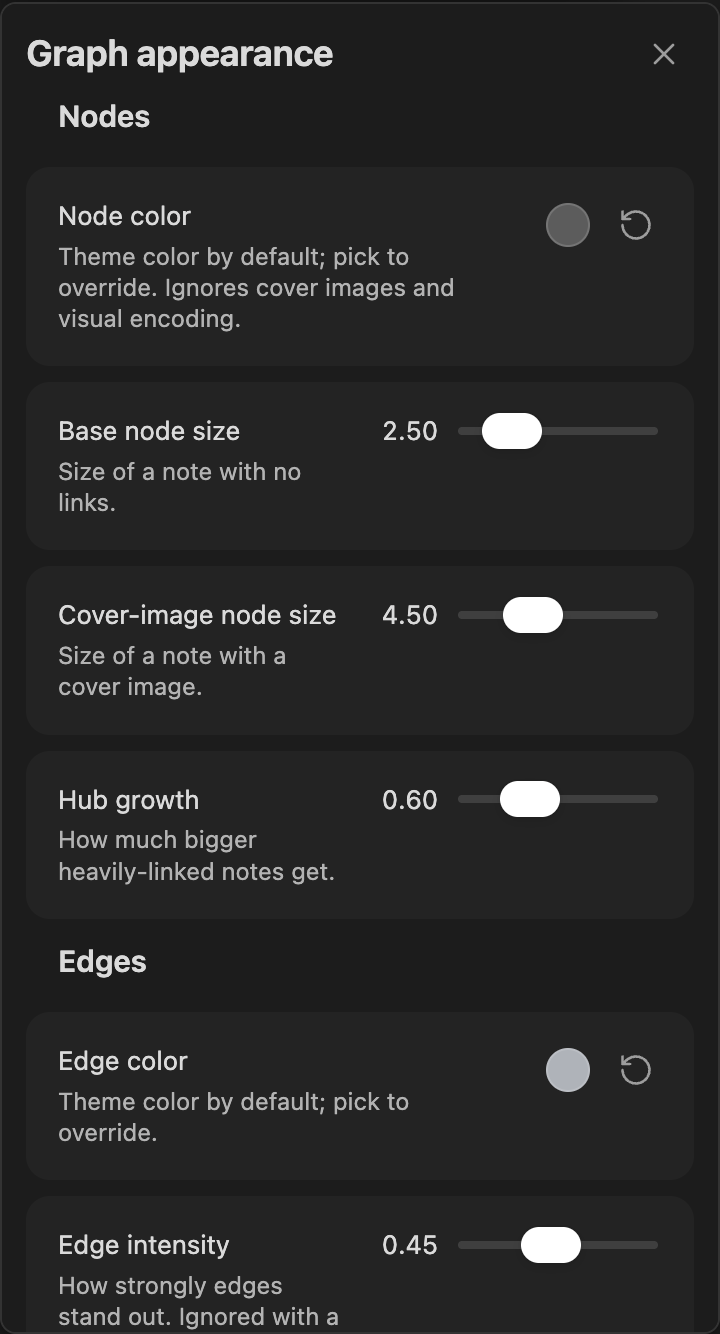
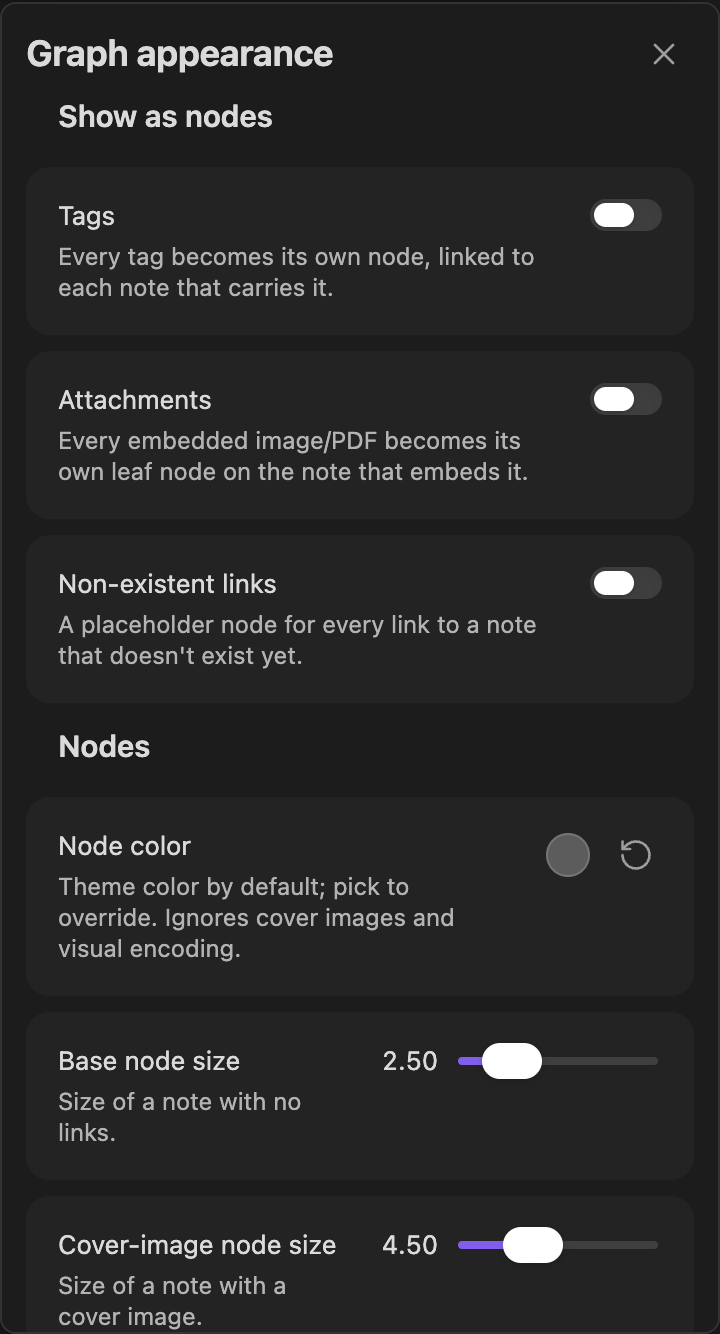
docs: rewrite documentation site for current feature set + fresh screenshots
The guide hadn't kept up with several sessions' worth of features -
rewritten to match reality, with extra care on the criteria people ask
about most:

- filter.md: replaces the removed "Existence" criterion with "Node type"
  (note/tag/attachment/nonexistent), adds Semantic clustering, and adds
  two dedicated deep-dive sections - "Understanding Community (the
  hardest one to explain)" and "Understanding Semantic clustering" -
  covering what a community actually is, why the numbering can shift, why
  its color used to auto-sync and no longer does, and how semantic
  clustering differs from Community (content vs. link structure).
- color-and-size.md: removes the now-false "color syncs automatically"
  claim, documents the cluster-heatmap glow for Community/Semantic
  cluster groups, links back to the Community/Semantic clustering
  explanations.
- diagnostics.md, appearance.md: document the cluster-heatmap glow and
  its Appearance toggle, "Show as nodes", edge path styles, Dissuade
  hubs/Tighter clusters.
- getting-started.md, introduction.md: fix the toolbar description (now
  horizontal, top-left, not vertical top-right) and add the two
  previously-undocumented panels, Find path and Saved views.
- New guide/find-path.md, guide/saved-views.md - full pages for both,
  wired into the sidebar (config.mts).
- index.md: features list now mentions semantic clustering and saved
  views, not just the original five panels.
[…]

diff --git a/docs/guide/filter.md b/docs/guide/filter.md
@@ -14,7 +14,7 @@ Click **"+ new filter"** to add one, then click its pencil icon to edit it. Give
 
 ## The criteria
 
-Two kinds of criteria: plain ones that look at a note directly (its text, tags, properties, links), and analytics ones computed from the whole link graph (bridging, prominence, activity, structure, connectivity, community). Every [Color & size](./color-and-size) group uses exactly the same criteria, applied to coloring/sizing instead of hiding.
+Three kinds of criteria: plain ones that look at a note directly (its text, tags, properties, links), *link-graph* analytics computed from how your notes connect (bridging, prominence, activity, structure, connectivity, community), and one *content* analytic that ignores links entirely (semantic clustering). Every [Color & size](./color-and-size) group uses exactly the same criteria, applied to coloring/sizing instead of hiding.
 
 ### Plain criteria
 
@@ -25,26 +25,52 @@ Two kinds of criteria: plain ones that look at a note directly (its text, tags, 
 - **Filename** - the note's title (not its body) contains a word or phrase.
 - **Not edited at least (days)** - the note hasn't been modified in at least this many days.
 - **Minimum number of links** - the note has at least this many links (its degree in the graph, in + out combined).
-- **Existence** - whether the node is a real note, or a *ghost node* - a link to a note that doesn't exist yet. Use this to show only the gaps in your vault (notes you've linked to but never created), or to hide them entirely. Two ready-made filters, **"Show existing notes"** and **"Show non-existing notes"**, are available out of the box (disabled by default) so you don't have to build this one from scratch.
+- **Node type** - matches one specific kind of node: a normal note, a *tag node*, an *attachment node*, or a *nonexistent link* (a link to a note that doesn't exist yet, also called a "ghost node"). Tag and attachment nodes only appear on the graph at all once you turn them on under [Appearance](./appearance#show-as-nodes) - each is off by default, since either one adds real nodes/edges to the graph, not just a style change. Three ready-made filters - **"Non-existent links"**, **"Attachments"**, **"Tags"** - are available out of the box (disabled by default, and each still needs its matching "Show as nodes" toggle on to actually see anything) so you don't have to build this one from scratch.
 
-### Analytics criteria
+### Link-graph criteria
 
 These run the same graph algorithms the [Diagnostics](./diagnostics) panel uses, so you can turn any of them into a reusable filter (or a [Color & size](./color-and-size) group) instead of only reading them off a list.
 
 - **Bridging** (betweenness centrality) - whether a note lies on the shortest path between many *other* pairs of notes, i.e. how much of a structural bridge it is. A note can have very few links and still score high here, if it's the only connection between two otherwise-separate parts of the vault - that's what sets it apart from "Minimum number of links." Choose "connects otherwise-separate notes" (top half of what's present) or "not a bridge note" (bottom half).
 - **Prominence** (PageRank) - how prominent a note is, weighted by how prominent the notes linking to it are. Ten links from ten obscure notes count for less than one link from an already-prominent hub - unlike "Minimum number of links," which treats every link the same. Choose "a prominent note" (top half) or "not a prominent note" (bottom half).
-- **Activity** - whether a note sits in an active or inactive neighborhood of the vault. Clew groups tightly-linked notes into communities (see "Community" below), then compares how recently each community was edited overall. Choose "active area of the vault" or "inactive area of the vault." This is about the *neighborhood*, not the individual note - see "Not edited at least" above for a note's own edit date, independent of who it's linked to.
+- **Activity** - whether a note sits in an active or inactive neighborhood of the vault. Notes are grouped into communities (see "Community" below), then compared by how recently each community was edited overall. Choose "active area of the vault" or "inactive area of the vault." This is about the *neighborhood*, not the individual note - see "Not edited at least" above for a note's own edit date, independent of who it's linked to.
 - **Structure** - whether a note's community (see below) is mostly gathered in one folder, or scattered across several. Flags a group of notes that clearly belongs together by links but has drifted across mismatched folders over time - the kind of thing that's easy to miss by browsing folders one at a time. Choose "linked notes scattered across folders" or "linked notes gathered in one folder."
 - **Connectivity** - whether a note's connected component is the vault's single largest one (its "main body"), or one of the smaller pockets cut off from it. Choose "cut off from the vault's main body" or "in the vault's main body."
-- **Community** - matches every note in one specific detected community. Communities are groups of tightly-linked notes Clew detects automatically from your link graph - not folders or tags you set up yourself. Instead of typing a community number, pick any note you recognize that belongs to the community you want - Clew resolves which one it is for you, and confirms with "→ Community 2 · 17 notes" so the number always comes with real context (how big that neighborhood is), not as a bare digit you have to already know the meaning of.
+- **Community** - matches every note in one specific detected community. See its own section below - it's the criterion most people have questions about the first time they meet it.
+
+### Content criterion
+
+- **Semantic cluster** - matches every note in one specific *semantic* cluster, grouped by what notes are actually about rather than by any link between them. See its own section below.
+
+## Understanding Community (the hardest one to explain)
+
+**A community is a group of notes that link to each other a lot more than they link to the rest of your vault** - detected automatically by an algorithm (Louvain community detection) run over your actual link graph, every time it matters. It has nothing to do with folders, tags, or anything you set up yourself; it's purely "which notes cluster together if you only look at who links whom." A vault about, say, cooking and woodworking will usually end up with one community per topic even if you never tagged anything that way - the notes about roasting techniques all link to each other far more than they link to the notes about joinery, so the algorithm separates them on its own.
+
+A few things that consistently confuse people the first time:
+
+- **You don't create or name communities.** They're recomputed from your current link graph whenever a Community/Activity/Structure criterion needs them (and cached in between), so they can genuinely change as you add or remove links - a community isn't a permanent label attached to a note, it's a snapshot of "who currently clusters with whom."
+- **The numbering is just "biggest first," and can shift.** Internally each community gets a rank - `0` is the largest community present, `1` the next largest, and so on - recomputed fresh from your current link graph every time, not a permanent ID. That number is never shown to you directly: when you add a Community criterion, you get a note-picker instead - type any note you recognize, and Clew resolves which community it's currently in for you, showing "→ Community 2 · 17 notes" so the number always comes with real context. A criterion saved this way matches "whichever community currently holds rank 2," so if your link graph changes enough to reorder the rankings (a different community growing past it, say), the criterion can end up matching a different community than the one you originally picked from - a rare edge case in practice (rankings are usually stable), but worth knowing about if a group's matches ever look unexpectedly different after a big round of edits.
+- **A community isn't the same thing as "connected."** Two notes can be in the same connected component (see "Connectivity" above) without being in the same community - Louvain groups by *density* of linking, not just by "is there any path at all." A vault's whole main body is usually one connected component but several communities.
+- **Community's color used to auto-sync to a fixed palette - it doesn't any more.** An earlier version of Clew tried to color every "Community" group automatically from a fixed palette the moment you picked a community, on the theory that "Community 1 is always red" would be a useful convention. User feedback made clear that was more surprising than helpful - picking a note in the note-picker could silently repaint a group you'd already colored yourself. Community's color is now a plain, manual choice in [Color & size](./color-and-size), exactly like every other criterion type - picking a community only changes *which notes match*, never what color they get.
+
+**When to reach for it:** whenever "these notes clearly belong together, even though I never explicitly grouped them" is the thing you want to see - a fast way to discover topic clusters you didn't consciously build, before deciding whether to formalize them as tags or folders.
+
+## Understanding Semantic clustering
+
+**Semantic clustering groups notes by what they're actually about, using a local text-embedding model - not by any link between them at all.** This is the one criterion in Clew that ignores your link graph entirely: two notes that both happen to discuss the same topic, written independently, in different folders, with zero tags in common and no link ever drawn between them, still land in the same semantic cluster if their content reads as related.
+
+- **How it works, briefly:** the first time you add a Semantic cluster criterion, Clew reads every note's title and body, turns each one into a numeric "meaning vector" using a small embedding model that runs entirely on your own device (nothing is ever sent anywhere), and groups notes whose vectors are close together. The panel shows **"Computing embeddings…"** while this runs - a one-time cost per note (a few seconds for a small vault, longer for a large one, and longer still the very first time, since the ~20MB model itself has to download once). After that, results are cached and only recomputed for notes you've actually changed.
+- **Community vs. Semantic cluster - when to use which:** reach for **Community** when you want "notes that reference each other a lot" (a structural, link-based question); reach for **Semantic cluster** when you want "notes that are about the same thing" regardless of whether you ever got around to linking them. The two can and do disagree - a note you wrote about a topic six months before you started cross-linking your notes on it will show up in the right semantic cluster immediately, long before it necessarily ends up densely linked into the matching community.
+- **Same note-picker, same "→ cluster · N notes" confirmation** as Community above - pick any note you recognize, Clew resolves which cluster it's in.
+- Same removed-auto-color behavior as Community: picking a cluster only changes which notes match, never the group's color.
 
 ## Include or exclude
 
-Most criteria show one small, clickable word right in their own controls - e.g. "Folder **is**" / "Folder **is not**", "Filename **contains**" / "**does not contain**", "**At least**" / "**less than**" this many days. Click the word to flip a criterion from including matches to excluding them, and back. The analytics criteria with a two-way choice (Bridging, Prominence, Activity, Structure, Connectivity) work the same way - the phrase itself is the toggle, since each one already reads as a complete either/or statement (there's no separate "high"/"low" number to set a cutoff on).
+Most criteria show one small, clickable word right in their own controls - e.g. "Folder **is**" / "Folder **is not**", "Filename **contains**" / "**does not contain**", "**At least**" / "**less than**" this many days. Click the word to flip a criterion from including matches to excluding them, and back. The link-graph criteria with a two-way choice (Bridging, Prominence, Activity, Structure, Connectivity) work the same way - the phrase itself is the toggle, since each one already reads as a complete either/or statement (there's no separate "high"/"low" number to set a cutoff on).
 
 ## What does this criterion mean?
 
-Every criterion, once added to a filter, has an **(i)** button next to its name - click it to reveal a one-line explanation of exactly what it matches, right there in the row. Useful for the analytics criteria especially (Bridging, Prominence, Activity, Structure, Community), but every criterion type has one, including the "obvious" ones like Tag or Folder.
+Every criterion, once added to a filter, has an **(i)** button next to its name - click it to reveal a one-line explanation of exactly what it matches, right there in the row. Useful for the link-graph and content criteria especially (Bridging, Prominence, Activity, Structure, Community, Semantic cluster), but every criterion type has one, including the "obvious" ones like Tag or Folder.
 
 ## Several filters at once
 

diff --git a/docs/guide/introduction.md b/docs/guide/introduction.md
@@ -2,33 +2,36 @@
 
 Obsidian's built-in graph shows you everything at once, but it's a single fixed view: one color scheme, one layout, and no analysis beyond what you can eyeball.
 
-**Clew is a Knowledge Explorer for your vault, not just another way to draw the graph.** It opens your whole vault as its own interactive graph view, but underneath that it runs real graph analytics - betweenness centrality, PageRank, community detection, connected components - and lets you filter, color, and size notes by what they find. A small set of tools sits on top of all that:
+**Clew is a Knowledge Explorer for your vault, not just another way to draw the graph.** It opens your whole vault as its own interactive graph view, but underneath that it runs real graph analytics - betweenness centrality, PageRank, community detection, connected components, even a local text-embedding model for notes that are related in *meaning* but never actually link to each other - and lets you filter, color, and size notes by what they find. A small set of tools sits on top of all that:
 
 - **Layout** - pick how notes are arranged: force-directed (the default), hierarchical, radial, or circular.
 - **Filter** - hide everything except notes matching one or more named, reusable filters, including the analytics criteria below.
 - **Color & size** - recolor and resize notes into named groups, by the same kind of criteria filters use.
+- **Find path** - the shortest route through the link graph between any two notes, with alternatives.
 - **Focus** - narrow the whole graph down to one note and its neighborhood, hops away, with everything else hidden.
-- **Diagnostics** - a panel of structural problems (orphans, broken links, isolated clusters, communities scattered across mismatched folders), each one click from being highlighted on the graph.
 - **Timeline** - replay your notes and links in the order they were created.
 - **Appearance** - tune node/edge size, color, physics, and labels live.
+- **Diagnostics** - a panel of structural problems (orphans, broken links, isolated clusters, communities scattered across mismatched folders), each one click from being highlighted on the graph.
+- **Views** - save the filter/group/layout/Focus combination you're currently looking at as one named, one-click-reapplicable view.
 
-Nothing here edits your notes. Filters, groups, and appearance settings are all Clew's own saved state (per vault), completely separate from your note content.
+Nothing here edits your notes. Filters, groups, saved views, and appearance settings are all Clew's own saved state (per vault), completely separate from your note content.
 
 ## Why use it
 
 - **Structure you can't see note-by-note becomes visible.** The default Force layout doesn't just draw dots - it pulls linked notes together and pushes unrelated ones apart, so topic clusters, well-connected hubs, and disconnected notes show up as shapes instead of something you have to click around to infer.
-- **Analysis you'd otherwise have to eyeball gets computed for you.** Which notes structurally bridge two topic areas, which are prominent because prominent notes link to them, which communities of linked notes have gone stale or drifted across mismatched folders - Clew runs the actual graph algorithms instead of asking you to guess from node size and color alone.
+- **Analysis you'd otherwise have to eyeball gets computed for you.** Which notes structurally bridge two topic areas, which are prominent because prominent notes link to them, which communities of linked notes have gone stale or drifted across mismatched folders, which notes are about the same thing even though nothing links them - Clew runs the actual algorithms instead of asking you to guess from node size and color alone.
 - **A big vault stops being one overwhelming mass.** Filters narrow the graph down to just the notes matching a tag, property, folder, edit recency, or any of the analytics criteria above, so you're looking at a slice, not everything at once.
 - **Nothing you do here can break your vault.** Filters, groups, and appearance settings are saved state, not edits to your notes - experiment freely.
 
 ## What you can find out about your vault
 
-- **Which notes are hubs.** Notes with more links are rendered larger by default, and a "link count" filter/group criterion lets you isolate them directly - the notes the rest of your vault actually depends on.
-- **Which notes bridge otherwise-separate parts of your vault, or are structurally prominent.** The "Bridging" criterion (betweenness centrality) finds notes that sit on the path between two topic areas; "Prominence" (PageRank) finds notes that are well-connected *because* the notes linking to them are well-connected too, not just because they have many links.
-- **Which notes are orphaned, isolated, or cut off from the vault's main body.** The Diagnostics panel lists orphaned notes and disconnected clusters directly; the "Connectivity" filter/group criterion does the same thing note-by-note, for building it into a filter or color group.
-- **Which topic areas have gone stale, or are scattered across mismatched folders.** The "Activity" criterion runs community detection on your link graph, then compares how recently each detected community was edited relative to the others. "Structure" compares the same communities against your folder layout instead - a group of notes that clearly belongs together by links, but lives in five different folders, shows up without you tracking it by hand. Both surface in the Diagnostics panel too.
+- **Which notes are hubs.** Notes with more links are rendered larger by default, and a "Minimum number of links" filter/group criterion lets you isolate them directly - the notes the rest of your vault actually depends on.
+- **Which notes bridge otherwise-separate parts of your vault, or are structurally prominent.** The **Bridging** criterion (betweenness centrality) finds notes that sit on the path between two topic areas; **Prominence** (PageRank) finds notes that are well-connected *because* the notes linking to them are well-connected too, not just because they have many links.
+- **Which notes are orphaned, isolated, or cut off from the vault's main body.** The Diagnostics panel lists orphaned notes and disconnected clusters directly, with a one-click glow on the graph showing exactly which notes they are; the **Connectivity** filter/group criterion does the same thing note-by-note, for building it into a filter or color group.
+- **Which groups of linked notes exist, and which have gone stale or drifted across folders.** Clew runs community detection (the Louvain algorithm) on your link graph automatically - the **Community** criterion matches everything in one specific detected group. **Activity** compares how recently each community was edited relative to the others; **Structure** compares each community against your folder layout instead, flagging one that clearly belongs together by links but lives scattered across five different folders. All three surface in the Diagnostics panel too - see [Filter](./filter#understanding-community-the-hardest-one-to-explain) for a fuller explanation of Community, since it's the one criterion that trips people up most.
+- **Which notes are about the same thing, even if nothing links them.** **Semantic clustering** reads every note's own title and content and groups notes by meaning, computed locally on your device - the one criterion here that isn't about link structure at all. Two notes that both happen to discuss the same topic, written independently and never cross-referenced, land in the same cluster.
 - **Which individual notes haven't been touched in a while.** Filter or group by "not edited in the last N days," independent of which community a note belongs to.
-- **How everything relates to one specific note.** The Radial layout arranges every other note in rings by hop distance from a note you pick - useful for seeing exactly what's actually connected to it, and how closely. Focus goes further and hides everything past a chosen hop distance entirely.
+- **How everything relates to one specific note.** The Radial layout arranges every other note in rings by hop distance from a note you pick - useful for seeing exactly what's actually connected to it, and how closely. Focus goes further and hides everything past a chosen hop distance entirely. Find path shows the actual route (or routes) between two specific notes.
 - **How your vault grew.** The Timeline panel replays notes and links in creation order - useful for spotting a burst of activity, a long quiet stretch, or just how far back your oldest notes go.
 
 ## Why "Clew"?
@@ -38,5 +41,5 @@ A *clew* is a ball of thread - the one Theseus used to find his way back out of 
 ## Where to go next
 
 - [Getting started](./getting-started) - open the graph for the first time.
-- [Layouts](./layouts), [Filter](./filter), [Color & size](./color-and-size), [Focus](./focus), [Timeline](./timeline), [Appearance](./appearance), [Diagnostics](./diagnostics) - one page per panel, in the order their toolbar icons appear.
+- [Layouts](./layouts), [Filter](./filter), [Color & size](./color-and-size), [Find path](./find-path), [Focus](./focus), [Timeline](./timeline), [Appearance](./appearance), [Diagnostics](./diagnostics), [Saved views](./saved-views) - one page per panel, in the order their toolbar icons appear.
 - [Interacting with the graph](./interactions) - clicking, hovering, and pinning notes.

diff --git a/docs/guide/color-and-size.md b/docs/guide/color-and-size.md
@@ -10,15 +10,21 @@ Click the **Color & size** toolbar icon to color and resize notes into named gro
 
 ## Creating a group
 
-Click **"+ new group"**, pick a color, give it a name, and add criteria the same way as [Filter](./filter): Text, Tag, Property, Folder, Filename, Not edited at least, Minimum number of links, Existence, plus the analytics criteria - Bridging, Prominence, Activity, Structure, Connectivity, Community - each with its own include/exclude word. See [Filter's criteria section](./filter#the-criteria) for exactly what each one matches.
+Click **"+ new group"**, pick a color, give it a name, and add criteria the same way as [Filter](./filter): Text, Tag, Property, Folder, Filename, Not edited at least, Activity, Structure, Bridging, Prominence, Connectivity, Community, Semantic cluster, Minimum number of links, Node type - each with its own include/exclude word. See [Filter's criteria section](./filter#the-criteria) for exactly what each one matches - **Community and Semantic cluster** are explained in detail there too, since they're the two most people have questions about.
 
 A note matches a group only if it satisfies **every** criterion in that group - same AND-only rule as Filter.
 
-Optionally turn on **"Scale size"** to also multiply matching notes' size (on top of their normal link-count-based size, not replacing it - a highly-linked note in a group still reads as a hub).
+Optionally turn on **"Scale size"** (in the "..." menu) to also multiply matching notes' size (on top of their normal link-count-based size, not replacing it - a highly-linked note in a group still reads as a hub).
 
-## Color by community, automatically
+## Color is always your own choice
 
-Pick the **Community** criterion and Clew syncs the group's own color to that community's color from a fixed palette automatically - so "color each detected community differently" needs no manual color-picking, just one group per community.
+A group's color is a plain, manual pick from its own color swatch - nothing here ever changes it automatically, including for Community or Semantic cluster criteria. Pick a community/cluster in the note-picker and only the *matching* changes; the group keeps whatever color you gave it. (An earlier version auto-synced a group's color to a fixed palette entry per community - removed after feedback that it kept silently overwriting colors people had already picked themselves.)
+
+## The cluster heatmap: showing visual cohesion, not just color
+
+For **Community** and **Semantic cluster** groups specifically, Clew adds a soft glow behind the matching notes, in the group's own color, on top of the ordinary flat coloring - so a cluster reads as one cohesive blob at a glance instead of a scatter of same-colored dots you have to visually connect yourself. Several such groups can glow at once, each in its own color. Turn this off entirely under [Appearance → "Cluster heatmap"](./appearance#cluster-heatmap) if you find it visually busy - the flat coloring stays either way, only the glow is affected.
+
+The [Diagnostics panel](./diagnostics)'s Isolated clusters and Structural deviation sections get the same glow treatment on their own "Show in graph" highlight - see that page for details.
 
 ## When several groups match the same note
 
@@ -26,6 +32,6 @@ Groups have a priority order - drag a group's handle to reorder the list. The **
 
 A group with no criteria yet - or a note that matches no enabled group at all - falls back to the graph's default color and size.
 
-## The ready-made "Non-existing notes" group
+## The ready-made groups
 
-Turned on under **Settings → Community plugins → Clew → "Default color group"**, this ships with a fixed criterion (Existence: nonexistent notes) that can't be changed or removed - but its color and "Scale size" multiplier are editable just like any group you create yourself, and persist the same way. Its name is fixed too, so it stays identifiable as the built-in one.
+Three ready-made groups - **"Non-existent links"**, **"Attachments"**, **"Tags"** - ship built on the `Node type` criterion, one per non-note kind of node Clew can show. Each is disabled by default; the tag/attachment ones also need their matching [Appearance → "Show as nodes"](./appearance#show-as-nodes) toggle on before there's anything to color at all. Their color and "Scale size" multiplier are editable just like any group you create yourself and persist the same way, but their name and criteria are fixed - turn these on/off entirely under **Settings → Community plugins → Clew → "Default color groups"**.

diff --git a/docs/guide/diagnostics.md b/docs/guide/diagnostics.md
@@ -10,7 +10,7 @@ Click the **Diagnostics** toolbar icon (the stethoscope) to open a panel of stru
 
 ## Orphans
 
-Notes with no link to (or from) any other real note. A note whose only link is to a nonexistent note (see "Existence" in [Filter](./filter#the-criteria)) still counts as an orphan here - it has nothing real to show for that link. Click an entry to open the note.
+Notes with no link to (or from) any other real note. A note whose only link is to a nonexistent note (see "Node type" in [Filter](./filter#the-criteria)) still counts as an orphan here - it has nothing real to show for that link. Click an entry to open the note.
 
 ## Broken links
 
@@ -18,15 +18,17 @@ Every link in your vault that doesn't resolve to a note that exists, listed as `
 
 ## Isolated clusters
 
-Groups of notes that are linked to each other but disconnected from the rest of the vault - your vault's "main body" (the single largest connected group of notes) isn't listed here, only the smaller pockets cut off from it. Each row shows how many notes are in the cluster, with a highlight button (highlighter/eraser icon) to show that cluster on the graph, dimming everything else. Only one cluster can be highlighted at a time. This is the same distinction the "Connectivity" filter/group criterion uses - Diagnostics lists the clusters directly, Connectivity lets you build a filter or color group out of the same underlying check.
+Groups of notes that are linked to each other but disconnected from the rest of the vault - your vault's "main body" (the single largest connected group of notes) isn't listed here, only the smaller pockets cut off from it. Each row shows how many notes are in the cluster, with a highlight button (highlighter/eraser icon) to show that cluster on the graph: matching notes recolor and get a soft glow behind them, everything else dims, so the cluster reads as one cohesive group rather than a handful of dots you have to connect by eye. Only one cluster can be highlighted at a time. This is the same distinction the "Connectivity" filter/group criterion uses - Diagnostics lists the clusters directly, Connectivity lets you build a filter or color group out of the same underlying check.
 
 ## Structural deviation
 
-One community whose notes are scattered across several different folders, even though they clearly belong together by link topology - the kind of drift that's easy to miss unless you're comparing folder layout against link structure directly. Each row shows the community and a highlight button, the same as Isolated clusters. This is the same check the "Structure" filter/group criterion uses.
+One community whose notes are scattered across several different folders, even though they clearly belong together by link topology - the kind of drift that's easy to miss unless you're comparing folder layout against link structure directly. Each row shows the community and the same highlight-with-glow button as Isolated clusters. This is the same check the "Structure" filter/group criterion uses, and the same "Community" concept explained in detail on the [Filter](./filter#understanding-community-the-hardest-one-to-explain) page.
 
 ## Turning sections on or off
 
 Each of the four sections - Orphans, Broken links, Isolated clusters, Structural deviation - can be turned off individually under **Settings → Community plugins → Clew**, if you only care about some of them. If every section is off, the panel says so and points you back to that settings page.
+
+Both highlight buttons' glow effect can be turned off entirely (independent of the sections themselves) under [Appearance → "Cluster heatmap"](./appearance#cluster-heatmap) - the recolor/dim highlight itself stays either way.
 
 ## Where to go next
 

diff --git a/docs/index.md b/docs/index.md
@@ -4,7 +4,7 @@ layout: home
 hero:
   name: Clew
   text: The Knowledge Explorer for your vault
-  tagline: Betweenness, PageRank, activity clusters, and smart filters that show how your notes actually connect - not just another way to draw the graph.
+  tagline: Betweenness, PageRank, community detection, and semantic clustering, plus smart filters that show how your notes actually connect - not just another way to draw the graph.
   image:
     src: /screens/graph-overview-dark.png
     alt: The Clew graph view
@@ -23,24 +23,30 @@ features:
   - icon: 🧠
     title: Understand, not just visualize
     details: Betweenness, PageRank, community detection, and connected-component analysis surface bridge notes, prominent notes, and topic communities - not just a nicer drawing of your links.
+  - icon: 🧬
+    title: Notes related by meaning, not just links
+    details: Semantic clustering reads every note's own content with a local embedding model and groups notes that are about the same thing, even if nothing links them to each other.
   - icon: 🩺
     title: Structural diagnostics
-    details: One panel flags orphaned notes, broken links, isolated clusters, and communities scattered across mismatched folders - each one click away from "show me on the graph."
+    details: One panel flags orphaned notes, broken links, isolated clusters, and communities scattered across mismatched folders - each one click away from "show me on the graph," with a soft glow marking exactly which notes belong together.
   - icon: 🔍
     title: Named, reusable filters
-    details: Build filters from tags, properties, folder, filename, text, link count, edit recency, activity, structure, bridging, prominence, connectivity, or community - invert any of them, combine several with either/or logic.
+    details: Build filters from tags, properties, folder, filename, text, link count, edit recency, activity, structure, bridging, prominence, connectivity, community, or semantic cluster - invert any of them, combine several with either/or logic.
   - icon: 🎨
     title: Color & size by your own rules
     details: The same criteria as filtering, applied as named, colored groups instead - so "everything tagged #project" or "this note's own community" gets its own color and size at a glance.
   - icon: 🧭
-    title: Four layouts, or focus on one note
-    details: Force-directed, Hierarchical, Radial, or Circular for the whole vault - or Focus in on just one note and its neighborhood, hops away, without everything else in view.
+    title: Four layouts, find a path, or focus on one note
+    details: Force-directed, Hierarchical, Radial, or Circular for the whole vault - trace the actual route between two notes, or focus in on just one note and its neighborhood, hops away.
+  - icon: 🔖
+    title: Save a setup, come back to it
+    details: Save your current filters, coloring, layout, and focus as a named view - one click restores the exact same combination later.
   - icon: 🕰
     title: Watch your vault grow
     details: The Timeline panel replays notes and links in the order they were created, at a duration and pace you pick.
   - icon: 🎛
     title: Live appearance tuning
-    details: Node/edge size, color, physics, and label density are all adjustable while watching the graph react immediately.
+    details: Node/edge size, color, physics, edge shape, and label density are all adjustable while watching the graph react immediately.
   - icon: 🖱
     title: Click, hover, drag
     details: Click a node to open that note, hover to highlight its connections, drag a note to pin it exactly where you want it.

diff --git a/docs/guide/appearance.md b/docs/guide/appearance.md
@@ -8,18 +8,31 @@ Click the **Appearance** toolbar icon to tune how the graph looks - every slider
   <figcaption>The Appearance panel.</figcaption>
 </figure>
 
+## Show as nodes
+
+Three independent toggles, all off by default, each adding real nodes/edges to the graph (a structural change, not just a style tweak):
+
+- **Tags** - every tag becomes its own node, linked to each note that carries it.
+- **Attachments** - every embedded image/PDF becomes its own leaf node on the note that embeds it.
+- **Non-existent links** - a placeholder node for every link to a note that doesn't exist yet (a "ghost node").
+
 ## Nodes & edges
 
-- **Node size** - base size, how much it grows with a note's own link count, and an optional color override.
-- **Edge intensity/color** - how strongly edges stand out against the background, and an optional color override.
+- **Node color** - theme color by default; pick to override. Ignores cover images and Color & size groups.
+- **Node size** - base size, and how much it grows with a note's own link count.
+- **Edge color/intensity** - theme color by default (pick to override), and how strongly edges stand out against the background.
 - **Show edge direction** - draws arrowheads for directional links, with its own size slider once enabled.
+- **Edge path** - how edges are drawn: a straight line (the default), a single gentle curve, or an S-curve that bends one way then the other along its length. Combines freely with "Show edge direction" above - an arrowhead still points at the linked note, just following whichever shape is picked.
+- **Cluster heatmap** - the soft glow behind Isolated clusters/Structural deviation's [Diagnostics](./diagnostics) highlight and enabled Community/Semantic clustering [Color & size](./color-and-size) groups. On by default; turn it off if you find it visually busy - the plain recolor/dim highlight and flat group coloring underneath are unaffected either way, only the glow itself.
 
 ## Physics (Force layout)
 
+Only shown while Force layout is active - Hierarchical/Radial/Circular have their own spacing sliders instead, shown only while that layout is active.
+
 - **Gravity** - how strongly notes are pulled toward the center.
 - **Scaling ratio** - overall repulsion/attraction strength.
-
-These only show while Force layout is active - Hierarchical/Radial/Circular have their own spacing sliders instead, shown only while that layout is active.
+- **Dissuade hubs** - spreads a heavily-linked note's neighbors out around it instead of clumping them on top of it.
+- **Tighter clusters** - pulls closely-linked notes into denser, more separated clusters.
 
 ## Labels
 
@@ -32,4 +45,4 @@ A count of how many notes you've manually pinned by dragging them (see [Interact
 
 ## Reset to defaults
 
-Puts every slider above back to its shipped default in one click.
+Puts every slider and toggle above back to its shipped default in one click.

diff --git a/docs/guide/find-path.md b/docs/guide/find-path.md
@@ -1,0 +1,22 @@
+# Find path
+
+Click the **Find path** toolbar icon (the route icon) to find a route through the link graph between any two notes.
+
+## Using it
+
+1. Click the Find path icon to open the panel.
+2. Pick a **From** note and a **To** note.
+3. Optionally turn on **Directed** - off (the default) lets a route follow a link either way regardless of which note it was written in; on restricts it to the actual direction a link was written, so a route can only go from the linking note to the linked one, not back.
+4. Click **Find path**.
+
+Clew favors notes with fewer links over big hub/index notes even if that route ends up with more hops - a path that hops through your vault's biggest MOC just because it links to everything usually isn't the *meaningful* connection you're looking for. Alongside the shortest route, a few alternatives are shown as small pills you can switch between; the graph highlights whichever one is currently selected and dims everything else, the same way a Diagnostics highlight does.
+
+**"No path found" is a real, useful result, not an error** - it means the two notes genuinely aren't connected through any chain of links in either direction. See the [FAQ](../reference/faq#find-path-says-no-path-found-is-that-a-bug) for more on this.
+
+## Excluding notes and folders
+
+Some notes shouldn't count as a route through your vault - a single all-encompassing MOC/index note, or a whole "Archive" folder, would otherwise turn up as the "connection" between almost anything. Configure a vault-wide exclusion list under **Settings → Community plugins → Clew → "Find path"**: pick individual notes, or whole folders (including subfolders). Excluded notes also get a visible ring while Find path is open, so you can see which ones are being skipped at a glance. This is settings-tab-only, not something you set per search in the Find path panel itself - one exclusion list applies everywhere Find path runs.
+
+## Clearing a result
+
+Click the "x" on the result panel to clear the highlight and show the whole graph again. Find path's result is exclusive with Focus, an enabled filter's hiding, and a Diagnostics highlight - only one of these overrides the graph's normal contents at a time.

diff --git a/docs/guide/saved-views.md b/docs/guide/saved-views.md
@@ -1,0 +1,30 @@
+# Saved views
+
+Click the **Views** toolbar icon (the bookmark) to save your current setup - filters, coloring, layout, and Focus - as one named view you can jump back to in a single click.
+
+## What gets saved
+
+Clicking **"+ save current view"**, giving it a name, and saving captures:
+
+- every currently **enabled** filter, with its full criteria (not just a reference to it - see "If you edit the original later" below)
+- every currently **enabled** Color & size group, same way
+- the current **layout** (Force/Hierarchical/Radial/Circular), including which note Radial is centered on if that's the active layout
+- the current **Focus** note and hop depth, if Focus is active
+
+Anything not currently active (a disabled filter, a group you haven't turned on) isn't part of the snapshot - only what's actually shaping the graph right now.
+
+## Applying a view
+
+Click a view's **play** icon to restore that exact combination - whichever filters/groups it captured come back enabled with their saved criteria, the layout switches to match, and Focus is reapplied if it had one. The currently-applied view (if any) gets a checkmark in the list.
+
+## Updating a view
+
+Once a view is applied, its row gets an extra **save** icon - "Update with current filter/coloring/layout/focus" - which overwrites that same view with whatever's currently live, instead of creating a new one. This icon only appears on the view you actually applied, not on every row - clicking Update anywhere else would silently overwrite an unrelated view.
+
+## If you edit the original later
+
+A saved view stores a full, independent copy of each filter/group's criteria at the moment you saved it - not just a link back to the live filter/group. If you later edit that same filter in the Filter panel, applying the saved view restores its own saved definition, not whatever the filter currently looks like. This is deliberate: a saved view is a snapshot of "what I was looking at," not a live pointer that could silently change out from under you.
+
+## Renaming and deleting
+
+Each row's pencil icon renames it in place; the trash icon deletes it (with a confirmation). Up to 10 saved views at a time.

diff --git a/docs/guide/getting-started.md b/docs/guide/getting-started.md
@@ -21,7 +21,7 @@ The graph builds itself from your vault immediately - every note is a node, ever
 
 ## The toolbar
 
-A vertical icon rail sits in the top-right corner of the graph:
+A row of icons sits in the top-left corner of the graph, with any open panel dropping down directly beneath it:
 
 | Icon | Opens |
 | --- | --- |
@@ -29,14 +29,15 @@ A vertical icon rail sits in the top-right corner of the graph:
 | Reset view | Re-fits the camera to the whole graph |
 | Filter | The [Filter](./filter) panel |
 | Color & size | The [Color & size](./color-and-size) panel |
-| Find path | Finds a route through the link graph between two notes |
+| Find path | The [Find path](./find-path) panel - the route through the link graph between two notes |
 | Focus | The [Focus](./focus) panel - one note and its neighborhood, everything else hidden |
 | Timeline | The [Timeline](./timeline) panel |
 | Appearance | The [Appearance](./appearance) panel |
 | Diagnostics | The [Diagnostics](./diagnostics) panel - orphans, broken links, isolated clusters, scattered communities |
+| Views | The [Saved views](./saved-views) panel - save and reapply a whole setup in one click |
 
 Only one panel is ever open at a time - opening one closes whichever other one was open.
 
 ## Everything else is optional
 
-The rest of this guide covers each panel in turn, but none of it is required - the graph is fully usable the moment you open it. Filters and groups you set up are saved per vault and keep applying the next time you open Obsidian.
+The rest of this guide covers each panel in turn, but none of it is required - the graph is fully usable the moment you open it. Filters, groups, and saved views you set up are saved per vault and keep applying the next time you open Obsidian.

diff --git a/docs/guide/development.md b/docs/guide/development.md
@@ -23,10 +23,10 @@ npm run docs:shots -- --quit  # quit a running Obsidian first
 
 What it does, in order:
 
-1. Builds `.screenshot-vault/` - the same demo vault `npm run gen-test-vault` generates, plus the built plugin and a couple of pre-configured filters/groups so the Filter and Color & size panels aren't shown empty.
+1. Builds `.screenshot-vault/` - a ~290-note "world history" demo vault (`scripts/gen-history-vault.mjs`, deliberately separate from the small hand-crafted one `npm run gen-test-vault` generates for QA), plus the built plugin and a couple of pre-configured filters/groups (including a real Community group) so every panel shows realistic content instead of an empty list.
 2. Backs up your real `obsidian.json` and points it at that vault instead.
 3. Launches Obsidian with remote debugging enabled and connects to it.
-4. Opens the graph view wide, waits for Force layout to settle, and captures each motif (graph overview, layout picker, Filter panel, Color & size panel, Appearance panel, node hover) in light and dark.
+4. Opens the graph view wide, waits for Force layout to settle, and captures each motif (graph overview, layout picker, Filter panel, Color & size panel, Appearance panel, Diagnostics panel, Focus panel, Timeline panel, node hover) in light and dark.
 5. Restores your real `obsidian.json` and quits the launched Obsidian.
 
 Only macOS is supported (it launches `/Applications/Obsidian.app` directly) - re-run it whenever a UI change should be reflected in the screenshots, and commit the resulting PNGs under `docs/public/screens/` (they're deployed as static assets, not regenerated in CI - `docs/**` has no way to launch a real, licensed copy of Obsidian with a display).

diff --git a/docs/reference/faq.md b/docs/reference/faq.md
@@ -2,7 +2,11 @@
 
 ## Does Clew change my notes?
 
-No. Filters, Color & size groups, appearance settings, and pinned positions are all Clew's own saved state for the vault - separate from your note content, and never written into your notes' frontmatter or body.
+No. Filters, Color & size groups, saved views, appearance settings, and pinned positions are all Clew's own saved state for the vault - separate from your note content, and never written into your notes' frontmatter or body.
+
+## Does Semantic clustering send my notes anywhere?
+
+No. The first time you add a Semantic cluster criterion, Clew downloads a small (~20MB) text-embedding model once, then runs it entirely on your own device to turn each note's title and content into a numeric vector - nothing about your notes is ever sent to a server. See [Filter's "Understanding Semantic clustering"](../guide/filter#understanding-semantic-clustering) for how it works and why it can take a little while the first time.
 
 ## Nothing shows in the graph
 
